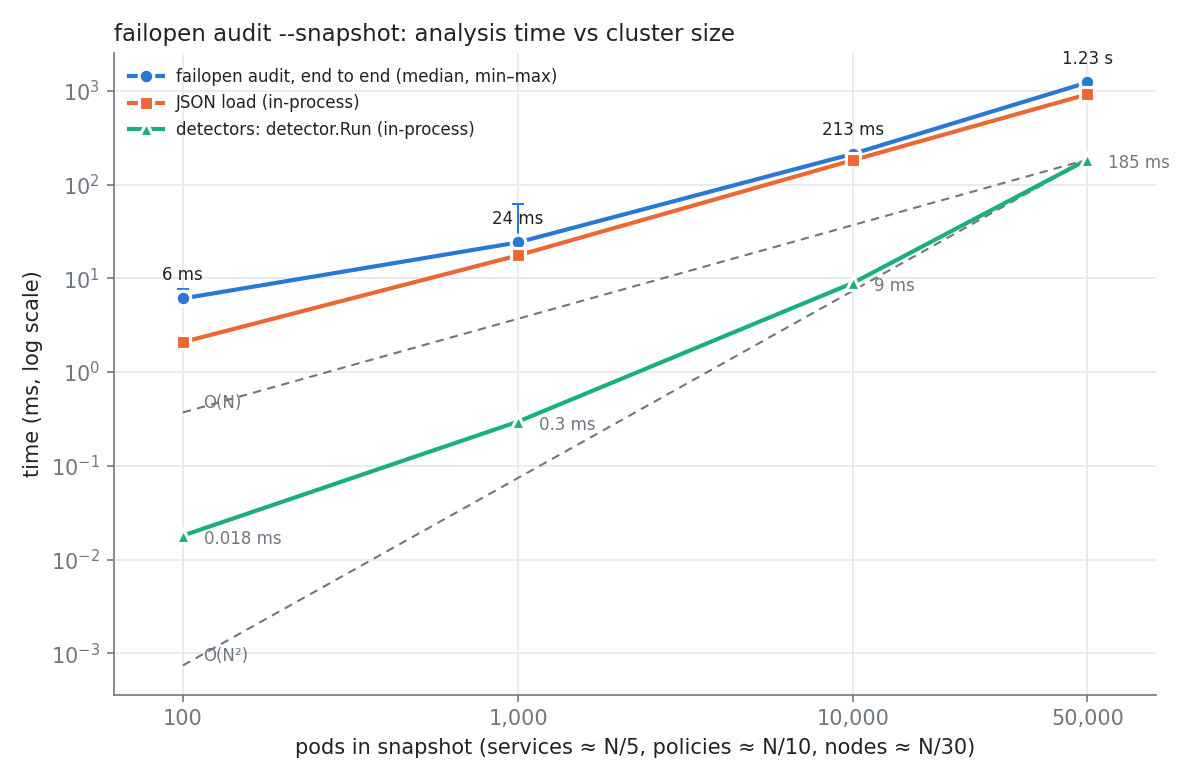
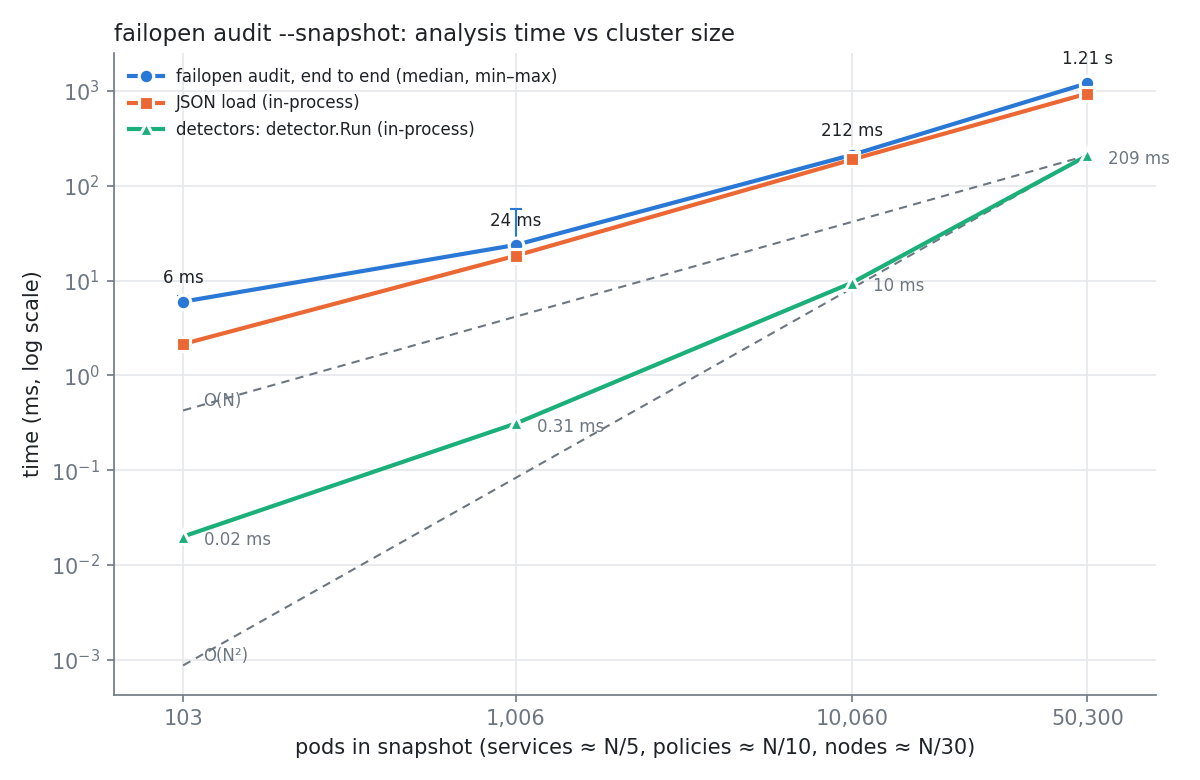
test(exp5): rerun with three detectors; generator adds non-system hostNetwork agents

diff --git a/hack/experiments/exp5/gen/main.go b/hack/experiments/exp5/gen/main.go
@@ -10,6 +10,8 @@
 //	                          ranges admitting the pod CIDR)
 //	nodes            ~N/30   (InternalIP in 10.0.0.0/16)
 //	hostPort pods    ~1% of app pods
+//	hostNetwork pods 3 per 10 team namespaces (a node agent under default-deny),
+//	                 plus calico-node per node (system, skipped by detectors)
 //
 //	go run ./hack/experiments/exp5/gen -pods 1000 -seed 1 -o snap-1000.json
 package main
@@ -367,6 +369,20 @@ func generate(nPods int, seed uint64) *collector.Snapshot {
 					NamespaceSelector: &metav1.LabelSelector{MatchLabels: map[string]string{"kubernetes.io/metadata.name": "monitoring"}},
 				}},
 			}}, nil))
+	}
+
+	// --- non-system hostNetwork agents: one 3-node DaemonSet in every 10th
+	// team namespace, under that namespace's default-deny, so that
+	// hostnetwork-under-policy has real work (system hostNetwork pods above
+	// are skipped by it).
+	for ns := 0; ns < nNS; ns += 10 {
+		nsName := fmt.Sprintf("team-%04d", ns)
+		for i := range min(3, nNodes) {
+			n := (ns + i) % nNodes
+			p := g.pod("node-agent", nsName, map[string]string{"app": "node-agent"}, "DaemonSet", "node-agent", nodeIP(n), s.Nodes[n].Name, nodeIP(n), 9100, "metrics", 0)
+			p.Spec.HostNetwork = true
+			s.Pods = append(s.Pods, p)
+		}
 	}
 	return s
 }

diff --git a/docs/experiments/exp5/RESULTS.md b/docs/experiments/exp5/RESULTS.md
@@ -2,7 +2,15 @@
 
 **Question.** Is `failopen audit` fast enough for real clusters and for CI?
 
-**Answer.** Yes. An offline audit of a 10,000-pod snapshot takes 0.21 s end to end. A 50,000-pod snapshot takes 1.2 s and peaks at 1.2 GB RSS. JSON decoding accounts for 75–85 % of the time at every size of 1,000 pods and up, and it scales linearly. The detectors are quadratic in cluster size, as the code predicts, but their constant is small: 185 ms at 50,000 pods.
+**Answer.** Yes. An offline audit of a 10,000-pod snapshot takes 0.21 s end to end. A 50,000-pod snapshot takes 1.2 s and peaks at 1.25 GB RSS. JSON decoding accounts for 75–85 % of the time at every size of 1,000 pods and up, and it scales linearly. The detectors are quadratic in cluster size, as the code predicts, but their constant is small: 209 ms at 50,000 pods.
+
+> **Rerun with three detectors.** These numbers include
+> `hostnetwork-under-policy`. The generator now also creates non-system
+> hostNetwork agents under a default-deny: 3 pods in every 10th namespace,
+> about 100 at 50k. Without them, the detector would skip every
+> hostNetwork pod at its first check, so its cost would be understated.
+> The third detector costs 1.4 ms at 50,000 pods. Whole-run times are
+> within 2% of the two-detector run.
 
 ![pods → analysis time](scaling.png)
 
@@ -12,21 +20,21 @@ Each size has 5 runs. "Wall" is the end-to-end time of `bin/failopen audit --sna
 
 | pods | services | policies | namespaces | nodes | snapshot | wall median (min–max) | peak RSS | JSON load | detectors | render | findings (crit / warn) |
 |---:|---:|---:|---:|---:|---:|---|---:|---:|---:|---:|---|
-| 100 | 20 | 10 | 4 | 3 | 0.6 MB | 6.1 ms (5.9–7.7) | 25 MB | 2.1 ms | 0.018 ms | 0.006 ms | 1 (0 / 1) |
-| 1,000 | 194 | 100 | 22 | 33 | 5.7 MB | 24.2 ms (23.5–61.9*) | 43 MB | 17.6 ms | 0.30 ms | 0.05 ms | 14 (10 / 4) |
-| 10,000 | 1,934 | 1,000 | 202 | 333 | 57.5 MB | 213 ms (212–215) | 221 MB | 183 ms | 9.0 ms | 0.65 ms | 176 (83 / 93) |
-| 50,000 | 9,667 | 5,000 | 1,002 | 1,666 | 287.6 MB | 1.23 s (1.21–1.24) | 1,245 MB | 920 ms | 185 ms | 2.9 ms | 770 (395 / 375) |
+| 103 | 20 | 10 | 4 | 3 | 0.6 MB | 6.0 ms (5.9–6.8) | 26 MB | 2.1 ms | 0.020 ms | 0.009 ms | 2 (1 / 1) |
+| 1,006 | 194 | 100 | 22 | 33 | 5.8 MB | 23.8 ms (23.6–56.2*) | 43 MB | 18.3 ms | 0.31 ms | 0.07 ms | 16 (12 / 4) |
+| 10,060 | 1,934 | 1,000 | 202 | 333 | 57.8 MB | 212 ms (206–215) | 222 MB | 190 ms | 9.5 ms | 0.74 ms | 196 (103 / 93) |
+| 50,300 | 9,667 | 5,000 | 1,002 | 1,666 | 289.2 MB | 1.21 s (1.20–1.24) | 1,250 MB | 939 ms | 209 ms | 4.6 ms | 870 (495 / 375) |
 
 \* A single slow run (likely noise from the clusters running on the same machine). The median is unaffected.
 
-Raw numbers are in [`results.csv`](results.csv). Almost all of the detector time goes to `ipblock-node-ips`. The `cni` detector takes 0.37 ms at 50,000 pods.
+Raw numbers are in [`results.csv`](results.csv). Almost all of the detector time goes to `ipblock-node-ips`. The `cni` detector takes 0.40 ms at 50,000 pods, and `hostnetwork-under-policy` 1.4 ms.
 
 Empirical scaling exponents (slope on the log-log plot):
 
 | segment | wall | JSON load | detectors |
 |---|---:|---:|---:|
-| 1k → 10k | 0.95 | 1.02 | 1.48 |
-| 10k → 50k | 1.09 | 1.00 | 1.88 |
+| 1k → 10k | 0.95 | 1.01 | 1.49 |
+| 10k → 50k | 1.08 | 0.99 | 1.92 |
 
 ## Complexity from the code, compared with the measurement
 
@@ -39,11 +47,12 @@ Notation: P = pods, S = services (S_np = NodePort/LoadBalancer services), NP = N
 | `ipblock-node-ips`: node IPs | `internalIPs` | O(Nn) |
 | `ipblock-node-ips`: `exposures()` | for every NodePort/LB service port, scan **all** pods (namespace check first, then label match), plus one pass over the pods for hostPorts | **O(S_np × P)** |
 | `ipblock-node-ips`: `admittingBlock()` | for every exposure not already reported, scan **all** policies (namespace check first). For same-namespace policies: parse the selector, walk the rules and peers, and test ipBlocks against the node IPs (O(Nn), only until the first hit) | **O(E × NP)** + O(E × NP_ns × peers × Nn) |
+| `hostnetwork-under-policy` | for every non-system hostNetwork pod (H), scan the policies of all namespaces (namespace check first) | O(H × NP); H is small (~0.2% of pods here) |
 | sort + render | `sort.SliceStable`, `report.Terminal` | O(F log F), O(F) |
 
 The two loops marked in bold are both Θ(N²) when every object count is proportional to N. A CPU profile of the detector phase at 50,000 pods (`bench -cpuprofile`) confirms this. `exposures()` accounts for 81 % of detector CPU. That time is almost entirely `memeqbody`/`memequal`, which is the `p.Namespace != svc.Namespace` string compare repeated about 1,160 × 50,000 ≈ 58 M times. `admittingBlock()` accounts for 15 %, from about 6,000 exposures × 5,000 policies. Selector parsing and CIDR math are each under 2 %.
 
-The measurement agrees with this analysis. The detector exponent rises from 1.48 to 1.88 and approaches 2 once the quadratic term outweighs the per-call overhead. Because the dominant cost is a single string compare per iteration, the constant is about 3 ns. The quadratic term therefore stays below the linear JSON-decode cost up to roughly 250k pods. Extrapolating with exponent 2: about 0.75 s of detector time at 100k pods and about 4.6 s at 250k pods. If it ever matters, indexing pods and policies by namespace once (a map built in O(P + NP)) would make both loops O(N × pods-per-namespace), which is effectively linear. No change is needed at current cluster sizes. The end-to-end wall time is linear in practice (exponents 0.95 and 1.09) because JSON decoding dominates it.
+The measurement agrees with this analysis. The detector exponent rises from 1.49 to 1.92 and approaches 2 once the quadratic term outweighs the per-call overhead. Because the dominant cost is a single string compare per iteration, the constant is about 3 ns. The quadratic term therefore stays below the linear JSON-decode cost up to roughly 250k pods. Extrapolating with exponent 2: about 0.75 s of detector time at 100k pods and about 4.6 s at 250k pods. If it ever matters, indexing pods and policies by namespace once (a map built in O(P + NP)) would make both loops O(N × pods-per-namespace), which is effectively linear. No change is needed at current cluster sizes. The end-to-end wall time is linear in practice (exponents 0.95 and 1.08) because JSON decoding dominates it.
 
 Memory peaks at about 4.3 × the snapshot file size: around 25 MB per 1,000 pods, plus a ~20 MB baseline. That cost comes from `encoding/json` decoding into full `corev1` structs. A 50,000-pod audit fits comfortably on a standard CI runner (7 GB on GitHub-hosted Linux).
 

diff --git a/docs/experiments/README.md b/docs/experiments/README.md
@@ -10,7 +10,7 @@ threats to validity (`expN/RESULTS.md`).
 | [2](exp2/RESULTS.md) | Is the CNI enforcement verdict right? (10 distributions/CNIs, live deny-all probe) | 7/10 on the code at `c6f9f7f`. The failures were old kindnet, Antrea, and flannel + kube-router (a false critical). After the fixes: **10/10**. |
 | [3](exp3/RESULTS.md) | What do existing tools find on the same scenarios? (Kubescape C-0041/C-0205/C-0260, netpol-analyzer) | failopen 17/21 must-label instances (13/21 before `hostnetwork-under-policy`), 0 FP. Kubescape partly flags the 4 still missed (C-0041 hostNetwork, `node-exception-segment`). netpol-analyzer computes declared connectivity correctly (98.7% agreement) and says *deny* on all 4,732 measured bypass probes. Live Kubescape C-0205 on the 10 CNIs of exp 2: 7/10. It misses old kindnet and k3s without policy, and raises a false alarm on flannel + kube-router. |
 | [4](exp4/RESULTS.md) | Do verdicts follow the network configuration, and degrade safely when knowledge is missing? | Missing pod CIDR or CNI: 0 severities raised, 0 new criticals (after 2 fixes). IPVS vs iptables: 0 bypass/overblock differences in 2,869 probes, same findings. eTP matters on Cilium: 1 FN. |
-| [5](exp5/RESULTS.md) | Is it fast enough for real clusters and CI? | 10,000 pods: 0.21 s. 50,000 pods: 1.2 s and 1.25 GB RSS. JSON decoding dominates. |
+| [5](exp5/RESULTS.md) | Is it fast enough for real clusters and CI? | 10,000 pods: 0.21 s. 50,000 pods: 1.2 s and 1.25 GB RSS, all three detectors. JSON decoding dominates; `hostnetwork-under-policy` adds 1.4 ms. |
 | [6](exp6/RESULTS.md) | Is it read-only in practice? (API server audit log) | 12 requests, all `list`, 0 mutating, under a read-only ServiceAccount. |
 
 ## What the experiments changed
